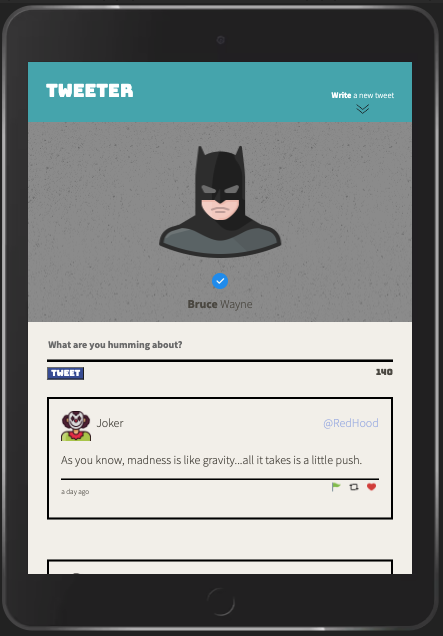
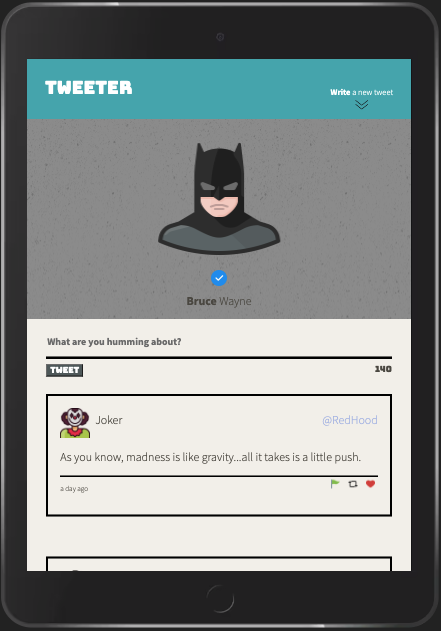
colour change to tweet button

diff --git a/public/styles/new-tweet.css b/public/styles/new-tweet.css
@@ -28,7 +28,7 @@ textarea {
 input {
   flex-direction: column;
   font-family: 'Bungee', cursive, sans-serif;
-  background-color: #4056A1;
+  background-color: #586364;
   color: #ffffff;
   outline: none;
 }
